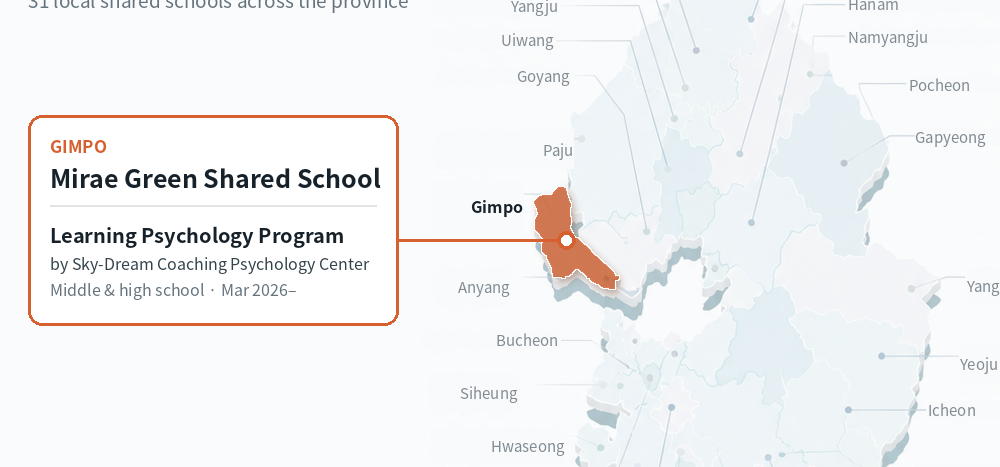
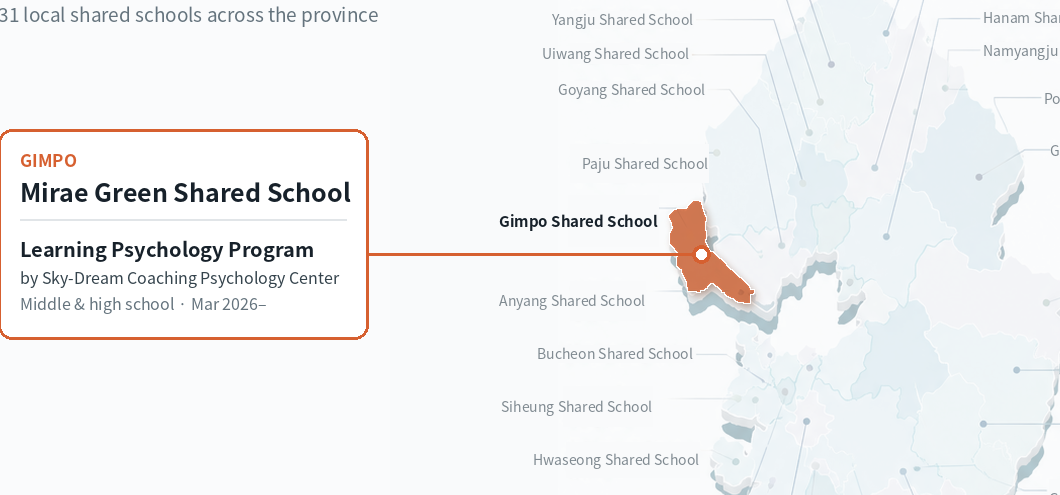
Shared-school map: keep 'Shared School' on every region label
Claude-Session: https://claude.ai/code/session_01Nu9Q1qVTEVJ3xfdX1fM8bK

diff --git a/projects.html b/projects.html
@@ -10,7 +10,7 @@
 <a href="beyond.html">Beyond Academia</a>
 <a href="contact.html">Contact</a></nav></header><main><div class="page-head"><div class="eyebrow">Projects</div><h1>Applied Projects</h1><p class="lead">Selected school- and community-based projects connecting assessment, intervention, mentoring, family support, and program development.</p></div>
 <section class="overview" id="overview" aria-label="All projects" data-back-label="All projects">
-<article class="overview-item" data-card-for="shared-school"><div class="overview-kicker">Public shared-school program · Middle and high school · 2026</div><h2><a href="#shared-school">Shared School: Urban to Rural Students</a></h2><div class="overview-body"><a class="overview-media" href="#shared-school" tabindex="-1" aria-hidden="true"><img src="shared-school-map-thumb-2026.png?v=en" alt="" loading="lazy" style="object-position:center center"></a><div class="overview-summary"><p>One learning psychology program for teenagers from the city center to a rural farm town. I developed and taught its academic coaching sessions, built around a web game with an optional AI coach.</p><a class="overview-more" href="#shared-school">View detail →</a></div></div></article>
+<article class="overview-item" data-card-for="shared-school"><div class="overview-kicker">Public shared-school program · Middle and high school · 2026</div><h2><a href="#shared-school">Shared School: Urban to Rural Students</a></h2><div class="overview-body"><a class="overview-media" href="#shared-school" tabindex="-1" aria-hidden="true"><img src="shared-school-map-thumb-2026.png?v=en2" alt="" loading="lazy" style="object-position:center center"></a><div class="overview-summary"><p>One learning psychology program for teenagers from the city center to a rural farm town. I developed and taught its academic coaching sessions, built around a web game with an optional AI coach.</p><a class="overview-more" href="#shared-school">View detail →</a></div></div></article>
 <article class="overview-item" data-card-for="poom-family"><div class="overview-kicker">Community practice · Children and adolescents · 2025</div><h2><a href="#poom-family">Poom Family: Support Around Young People</a></h2><div class="overview-body"><a class="overview-media overview-media--data" href="#poom-family" tabindex="-1" aria-hidden="true"><img src="poom-charts/pathway-thumbnail.svg" alt="" style="width:100%;height:auto"></a><div class="overview-summary"><p>Individual home-based youth coaching connected to parent and family support and community resources. A coordinated pathway from family assessment and service planning to case review and closure.</p><a class="overview-more" href="#poom-family">See the service pathway →</a></div></div></article>
 <article class="overview-item" data-card-for="hwanggok"><div class="overview-kicker">In the classroom · Hwanggok Elementary · 2025</div><h2><a href="#hwanggok">The Next Level of Learning</a></h2><div class="overview-body"><a class="overview-media" href="#hwanggok" tabindex="-1" aria-hidden="true"><img src="hwanggok-classroom-2025.jpg" alt="" loading="lazy" style="object-position:center 48%"></a><div class="overview-summary"><p>A four-session, game-based academic motivation program I designed and led for a third-grade class—using DISC-inspired characters, “Black Mamba” obstacle cards, and strategy cards—then extended into an assessment-informed psychological consultation for the school.</p><a class="overview-more" href="#hwanggok">View detail →</a></div></div></article>
 <article class="overview-item" data-card-for="green-friends"><div class="overview-kicker">Green Friends School · Group program · 2025</div><h2><a href="#green-friends">The Test They Finished</a></h2><div class="overview-body"><a class="overview-media" href="#green-friends" tabindex="-1" aria-hidden="true"><img src="green-friends-coaching-2025.jpg" alt="" loading="lazy" style="object-position:center 40%"></a><div class="overview-summary"><p>A five-session group for seven young teenagers with borderline intellectual functioning, requested because the students struggled to focus, even through their own assessments. Each session opened with play. By the post-program assessments, students who could not stay with a test were finishing it.</p><a class="overview-more" href="#green-friends">View detail →</a></div></div></article>
@@ -39,7 +39,7 @@
     <p>Gyeonggi Province runs 31 local shared schools. Each pools what schools and the community already have, so any student can join programs their own school cannot offer: after school, on weekends, or during breaks.</p>
   </div>
 
-  <figure class="gf-photo ssd-map"><img src="gyeonggi-shared-school-map-2026.png?v=en" alt="Map of Gyeonggi Province’s 31 shared schools with the Gimpo Mirae Green Shared School highlighted, where Sky-Dream Coaching Psychology Center offers a Learning Psychology Program" width="1069" height="830" loading="lazy" style="box-shadow:none"><figcaption>Our program sits in Gimpo, a city that runs from dense new towns to farmland. Map adapted from the Gyeonggi Provincial Office of Education.</figcaption></figure>
+  <figure class="gf-photo ssd-map"><img src="gyeonggi-shared-school-map-2026.png?v=en2" alt="Map of Gyeonggi Province’s 31 shared schools with the Gimpo Mirae Green Shared School highlighted, where Sky-Dream Coaching Psychology Center offers a Learning Psychology Program" width="1404" height="830" loading="lazy" style="box-shadow:none"><figcaption>Our program sits in Gimpo, a city that runs from dense new towns to farmland. Map adapted from the Gyeonggi Provincial Office of Education.</figcaption></figure>
 
   <section class="ssd-platform" aria-label="How a shared school works">
     <div class="ssd-platform-head"><strong>How a shared school works</strong><span>A local education collaboration platform</span></div>
